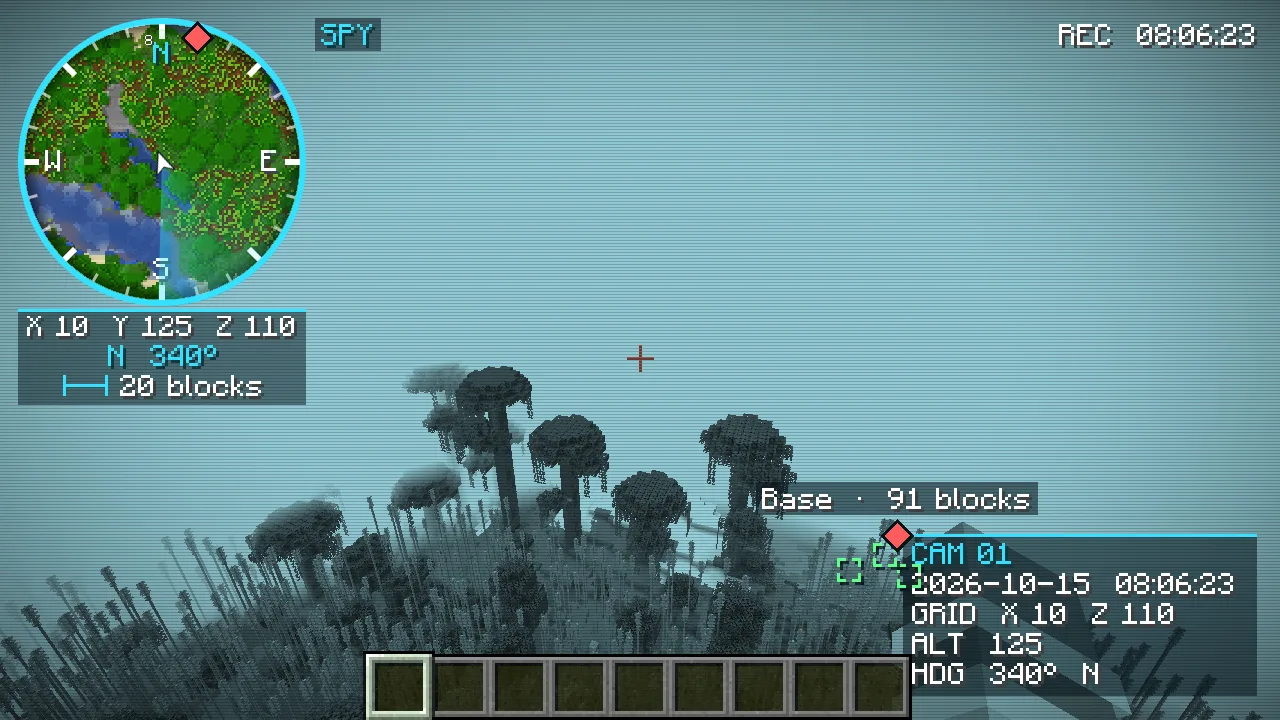
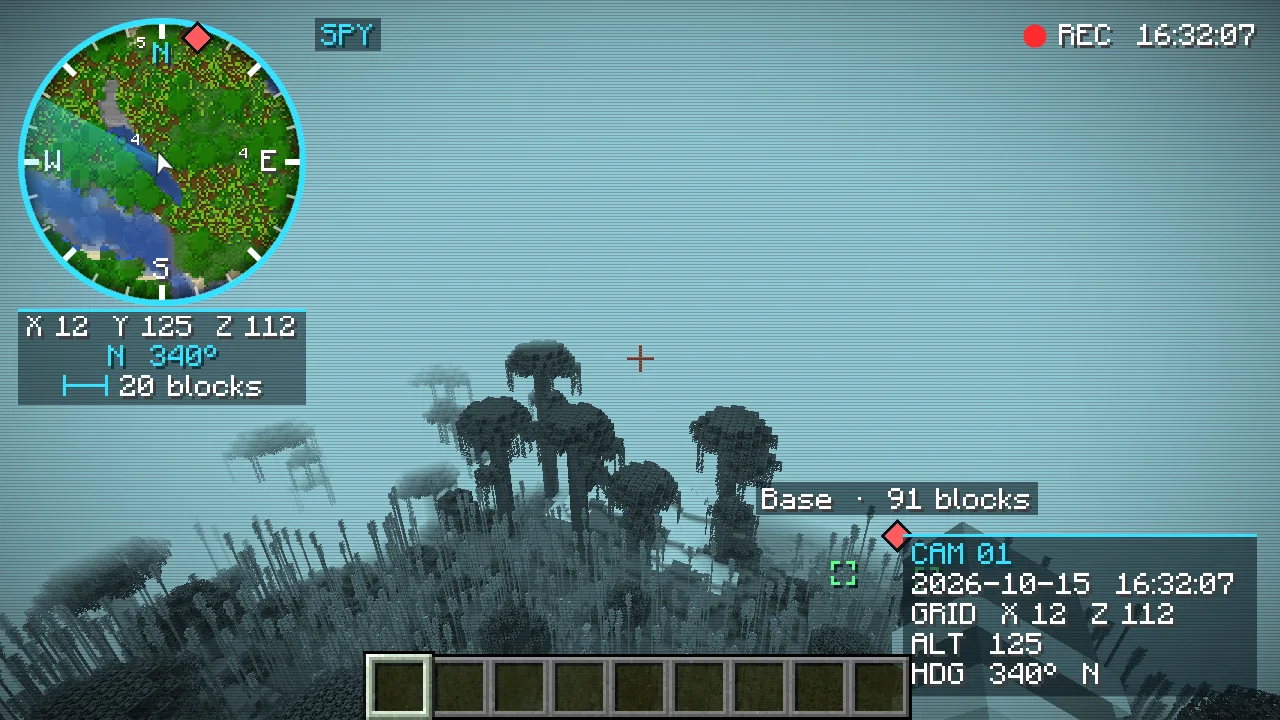
Download page: real download sizes, G note, new spy picture
- alon-site-build.sh works out sizes from the byte count; du counted whole disk
  blocks, so the 253 KB jar showed as 256KB (the zip still shows 18MB).
- The page says G is also Minecraft's Quick Actions key.
- The spy picture is retaken with Zenith MC 0.2.1, where the readout is drawn over
  target boxes and markers instead of under them.

Checked: format:check, check:boundaries, npm test (fail 0), security-tests.
Not published.

diff --git a/alon-site/index.html b/alon-site/index.html
@@ -133,7 +133,7 @@
           <figcaption><strong>Player cards.</strong> Another player's face, name, hearts and armour on the world map.</figcaption>
         </figure>
         <figure>
-          <a href="shots/zenith-mc-spy.webp"><img src="shots/zenith-mc-spy.webp" width="1280" height="720" loading="lazy" alt="The same jungle in grey and cyan with scanlines, a CAM 01 readout with date, grid, height and heading, a REC clock, small target brackets and a sonar sweep on the minimap" /></a>
+          <a href="shots/zenith-mc-spy.webp"><img src="shots/zenith-mc-spy.webp" width="1280" height="720" loading="lazy" alt="The same jungle in grey and cyan with scanlines, a CAM 01 readout with date, grid, height and heading, a red REC dot with the time, a small target bracket and a sonar sweep on the minimap" /></a>
           <figcaption><strong>Spy mode.</strong> A surveillance-camera picture with its readout, target boxes and a sonar sweep on the minimap.</figcaption>
         </figure>
         <figure>
@@ -165,7 +165,7 @@
       <ul class="plain">
         <li><strong>Minecraft 26.2 only, for now.</strong> Other versions come later.</li>
         <li><strong>Only you need it.</strong> It runs in your game; servers do not need anything installed.</li>
-        <li><strong>Works with Sodium and Iris.</strong> Tested with Sodium 0.9.2 and Iris 1.11.4, and with the Complementary Reimagined shader pack on. Iris also uses <code>K</code> and <code>R</code>, and Xaero's maps use <code>M</code> and <code>B</code>: if two mods share a key, change one of them in Controls.</li>
+        <li><strong>Works with Sodium and Iris.</strong> Tested with Sodium 0.9.2 and Iris 1.11.4, and with the Complementary Reimagined shader pack on. Iris also uses <code>K</code> and <code>R</code>, and Xaero's maps use <code>M</code> and <code>B</code>: if two mods share a key, change one of them in Controls. <code>G</code> is also Minecraft's own Quick Actions key: on servers that have Quick Actions, one press opens them and changes the eye mode.</li>
       </ul>
     </section>
 
